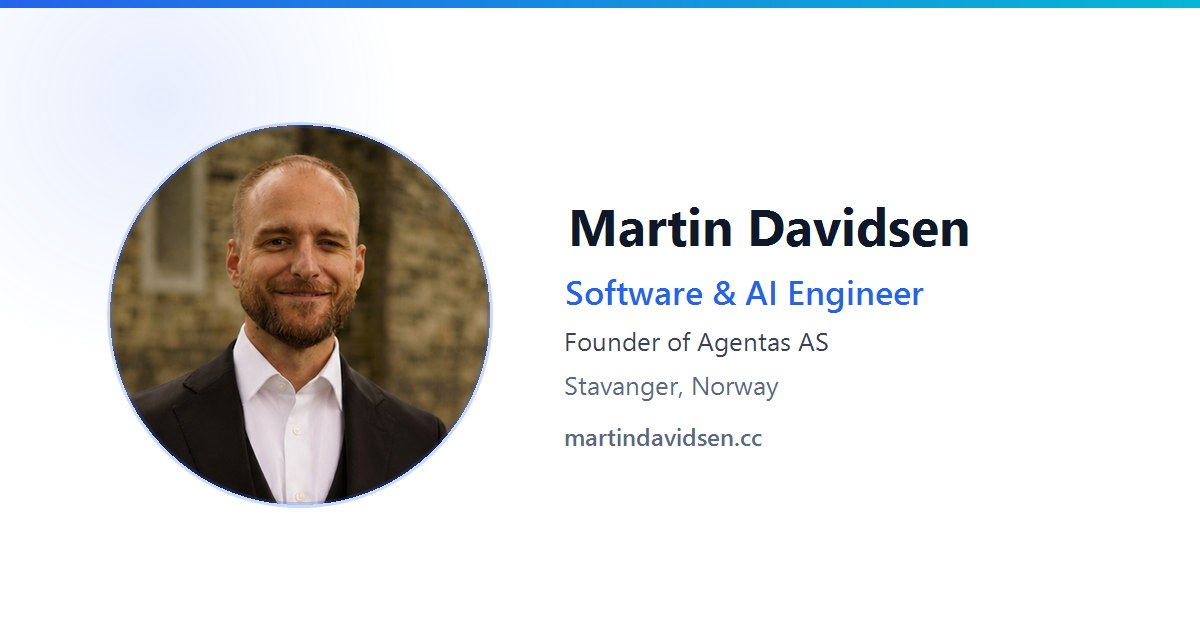
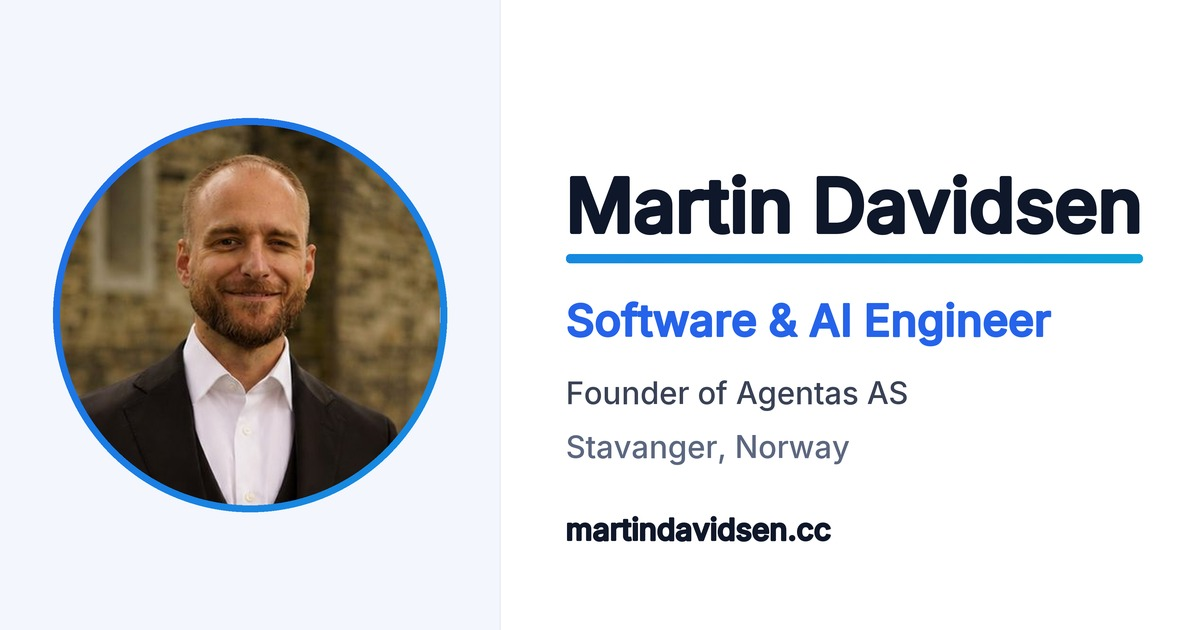
feat(og): refresh the OG share card — generator-owned, crisp, versioned
Photo-forward refresh of the hand-made og-card.jpg (Martin chose "keep the
photo" over a text card): same layout rebuilt on the site's :root palette
with a --gradient-accent ring on the headshot + underline under the name.
New root gen-og-card.py (not served; Dockerfile COPYs an explicit list),
rendered SUPERSAMPLED 3x -> LANCZOS on flat backgrounds so it survives
LinkedIn's ~500px downscale (rule established on the agentas-sites cards
today), validated against a simulated downscale before shipping.

Head: og:image/twitter:image/JSON-LD image -> og-card.jpg?v=1 (og-card
leaves the unversioned-CF-purge list; regen = bump N), + og:image:type,
og:image:alt, twitter:image.

Committed surgically: only the head hunk of index.html is included — the
in-flight project-card edits from the parallel career session stay
uncommitted in the working tree.

Docs same-commit: OM (gotcha + generator + stamp), KB §3 + stamp, Journal
2026-09-02c, Testing (pending Post-Inspector re-scrape).

diff --git a/index.html b/index.html
@@ -14,10 +14,13 @@
     <meta property="og:description" content="Software & AI Engineer based in Stavanger, Norway. Full-stack software, LLM-driven systems, and industrial automation.">
     <meta property="og:type" content="website">
     <meta property="og:url" content="https://martindavidsen.cc/">
-    <meta property="og:image" content="https://martindavidsen.cc/images/og-card.jpg">
+    <meta property="og:image" content="https://martindavidsen.cc/images/og-card.jpg?v=1">
     <meta property="og:image:width" content="1200">
     <meta property="og:image:height" content="630">
+    <meta property="og:image:type" content="image/jpeg">
+    <meta property="og:image:alt" content="Martin Davidsen — Software & AI Engineer">
     <meta name="twitter:card" content="summary_large_image">
+    <meta name="twitter:image" content="https://martindavidsen.cc/images/og-card.jpg?v=1">
     <link rel="preload" as="font" type="font/woff2" href="fonts/inter-latin-var.woff2" crossorigin>
     <link rel="stylesheet" href="styles.css?v=11">
     <script type="application/ld+json">
@@ -27,7 +30,7 @@
       "name": "Martin Davidsen",
       "jobTitle": "Software & AI Engineer",
       "url": "https://martindavidsen.cc",
-      "image": "https://martindavidsen.cc/images/og-card.jpg",
+      "image": "https://martindavidsen.cc/images/og-card.jpg?v=1",
       "address": { "@type": "PostalAddress", "addressLocality": "Stavanger", "addressCountry": "NO" },
       "sameAs": [
         "https://linkedin.com/in/martin-davidsen-51425a111",

diff --git a/gen-og-card.py b/gen-og-card.py
@@ -1,0 +1,106 @@
+# -*- coding: utf-8 -*-
+"""Generate the martindavidsen.cc Open Graph share card (images/og-card.jpg).
+
+Photo-forward refresh of the original hand-made card: same layout (circular
+headshot left, name/role/location right) rebuilt on the site's own :root palette
+from styles.css, with the --gradient-accent (#2563eb -> #06b6d4) as a photo ring
++ an underline under the name. Final image 1200x630 (Open Graph spec).
+
+CRISPNESS (learned on the agentas card, 2026-09-02): LinkedIn downscales the
+card to ~500px + re-encodes, so render SUPERSAMPLED (3x -> LANCZOS), keep the
+background flat, use bold high-contrast type. Eyeball a ~523x274 JPEG of the
+output before shipping - that's what platforms actually show.
+
+Headshot source = images/martin-400.jpg (the site's own headshot crop; ~1:1
+with the final circle so the supersample roundtrip is lossless). Font =
+_assets/inter.ttf (gitignored; copy of the agentas-sites ogcard-gen font).
+Root *.py files are NOT served (Dockerfile COPYs an explicit file list).
+
+og-card.jpg is UNVERSIONED in the head by default and CF-edge-cached - this
+refresh switched the og:image/twitter:image/JSON-LD refs to `?v=N` so a regen
+just bumps N (no Cloudflare purge). Overwrite = bump N in index.html.
+
+    python gen-og-card.py
+"""
+import os
+from PIL import Image, ImageDraw, ImageFont
+
+ROOT = os.path.dirname(os.path.abspath(__file__))
+FONT = os.path.join(ROOT, '_assets', 'inter.ttf')
+PHOTO = os.path.join(ROOT, 'images', 'martin-400.jpg')
+OUT = os.path.join(ROOT, 'images', 'og-card.jpg')
+
+# styles.css :root tokens.
+BG = (255, 255, 255)          # --bg-primary
+BG2 = (243, 246, 252)         # --bg-secondary
+INK = (15, 23, 42)            # --text-primary
+SECONDARY = (58, 66, 86)      # --text-secondary
+MUTED = (92, 103, 128)        # --text-muted
+ACCENT = (37, 99, 235)        # --accent            #2563eb
+GRAD_START = (37, 99, 235)    # --gradient-accent start
+GRAD_END = (6, 182, 212)      # --gradient-accent end #06b6d4
+BORDER = (229, 233, 242)      # --border
+
+SS = 3
+W, H = 1200 * SS, 630 * SS
+inter = lambda s: ImageFont.truetype(FONT, s * SS)
+
+
+def diag_gradient(c1, c2):
+    """Full-canvas 135deg linear gradient c1->c2 (--gradient-accent direction)."""
+    g = Image.new('RGB', (W, H), c1)
+    gd = ImageDraw.Draw(g)
+    diag = W + H
+    for i in range(0, diag, SS):
+        t = i / diag
+        gd.line([(0, i), (i, 0)], fill=tuple(int(c1[k] + (c2[k] - c1[k]) * t) for k in range(3)), width=SS)
+    return g
+
+
+img = Image.new('RGB', (W, H), BG)
+d = ImageDraw.Draw(img)
+grad = diag_gradient(GRAD_START, GRAD_END)
+
+# --- soft --bg-secondary wash on the photo half (flat, no fine texture) ---
+d.rectangle([0, 0, 500 * SS, H], fill=BG2)
+d.line([(500 * SS, 0), (500 * SS, H)], fill=BORDER, width=1 * SS)
+
+# --- circular headshot, gradient ring ---
+CIRCLE = 380 * SS
+cx, cy = 250 * SS, H // 2                      # circle center
+px, py = cx - CIRCLE // 2, cy - CIRCLE // 2    # photo top-left
+RING = 7 * SS
+
+ring_mask = Image.new('L', (W, H), 0)
+rd = ImageDraw.Draw(ring_mask)
+rd.ellipse([px - RING, py - RING, px + CIRCLE + RING, py + CIRCLE + RING], fill=255)
+rd.ellipse([px, py, px + CIRCLE, py + CIRCLE], fill=0)
+img.paste(grad, (0, 0), ring_mask)
+
+photo = Image.open(PHOTO).convert('RGB').resize((CIRCLE, CIRCLE), Image.LANCZOS)
+photo_mask = Image.new('L', (CIRCLE, CIRCLE), 0)
+ImageDraw.Draw(photo_mask).ellipse([0, 0, CIRCLE, CIRCLE], fill=255)
+img.paste(photo, (px, py), photo_mask)
+d = ImageDraw.Draw(img)
+
+# --- text block, right ---
+TX = 566 * SS
+name_f = inter(74)
+d.text((TX, 232 * SS), 'Martin Davidsen', font=name_f, fill=INK, anchor='ls', stroke_width=2 * SS)
+name_w = d.textlength('Martin Davidsen', font=name_f)
+
+# gradient underline under the name (site's --gradient-accent motif)
+uy = 254 * SS
+bar_mask = Image.new('L', (W, H), 0)
+ImageDraw.Draw(bar_mask).rounded_rectangle([TX, uy, TX + name_w, uy + 9 * SS], radius=4 * SS, fill=255)
+img.paste(grad, (0, 0), bar_mask)
+d = ImageDraw.Draw(img)
+
+d.text((TX, 336 * SS), 'Software & AI Engineer', font=inter(44), fill=ACCENT, anchor='ls', stroke_width=1 * SS)
+d.text((TX, 404 * SS), 'Founder of Agentas AS', font=inter(31), fill=SECONDARY, anchor='ls')
+d.text((TX, 458 * SS), 'Stavanger, Norway', font=inter(31), fill=MUTED, anchor='ls')
+d.text((TX, 540 * SS), 'martindavidsen.cc', font=inter(30), fill=INK, anchor='ls', stroke_width=1 * SS)
+
+img = img.resize((1200, 630), Image.LANCZOS)
+img.save(OUT, quality=92, optimize=True)
+print('wrote', OUT, '(1200x630, rendered at %dx)' % SS)

diff --git a/KnowledgeBase.md b/KnowledgeBase.md
@@ -8,9 +8,11 @@ that bite. The code index (where things live + invariants) is
 _The bible set: **OrientationMap = the machine · KnowledgeBase = the model ·
 ResearchJournal = the history · ToDo = deferrals · Testing = pending verification.**_
 
-_Last verified: 2026-08-20 @ ac64bfc (master) — bible-freshening pass: re-checked
-facts against OrientationMap + code (cache-bust was stale at v=7, corrected to
-v=9); added the Private & On-Prem AI framing fact (08-19 change)._
+_Last verified: 2026-09-02 (master) — added the generator-owned OG-card FACT
+(photo-forward refresh, supersampled crispness rule, `?v=` discipline; og-card
+left the unversioned-purge list) + deferred volatile cache-bust N to
+OrientationMap/code per this doc's own policy. Prior: 2026-08-20 @ ac64bfc
+bible-freshening pass; Private & On-Prem AI framing fact (08-19)._
 
 ## How to read this doc
 **[FACT]** = code/deploy-verified. **[HYP]** = hypothesis + confidence. Volatile
@@ -49,12 +51,24 @@ code — code wins any conflict.
 - **[FACT]** **Email is base64-assembled at runtime** into `#cc-email` — the
   plaintext stays out of the committed source (bot-harvest defense).
 - **[FACT]** **Cache-bust discipline:** `styles.css?v=N` + `script.js?v=N` in
-  `index.html` — bump on any functional CSS/JS change (currently v=9 / v=5).
-  Assets serve `immutable, 30d` and are Cloudflare-edge-cached; the HTML is
-  `no-cache`. **Unversioned files** (`robots.txt`, `favicon.*`,
-  `apple-touch-icon.png`, `og-card.jpg`, any reused image name) can serve
-  **stale from the CF edge after a deploy** → Custom-Purge that URL in Cloudflare
-  (the exact list + the verify-with-`?cb=1` trick are in OrientationMap).
+  `index.html` — bump on any functional CSS/JS change (current N lives in
+  OrientationMap/code — code wins). Assets serve `immutable, 30d` and are
+  Cloudflare-edge-cached; the HTML is `no-cache`. **Unversioned files**
+  (`robots.txt`, `favicon.*`, `apple-touch-icon.png`, any reused image name) can
+  serve **stale from the CF edge after a deploy** → Custom-Purge that URL in
+  Cloudflare (the exact list + the verify-with-`?cb=1` trick are in
+  OrientationMap). `og-card.jpg` left this list 2026-09-02 — now referenced
+  `?v=N`, so a regen bumps N instead of purging.
+- **[FACT]** **The OG share card is generator-owned** (2026-09-02):
+  `gen-og-card.py` (repo root, not served) renders `images/og-card.jpg` —
+  photo-forward refresh of the original hand-made card (circular headshot +
+  `--gradient-accent` ring, name/role/"Founder of Agentas AS"/domain) on the
+  site's own `:root` palette. Rendered SUPERSAMPLED (3×→LANCZOS, flat
+  backgrounds) because LinkedIn downscales cards to ~500px + re-encodes — fine
+  detail turns to mush (rule established on the agentas-sites cards the same
+  day, incl. the eyeball-check: downscale to ~523×274 JPEG q85 and look at
+  THAT). Regen = rerun + bump `?v=` (og:image, twitter:image, JSON-LD `image`)
+  + LinkedIn Post-Inspector re-scrape. Needs `_assets/inter.ttf` (gitignored).
 - **[FACT]** **Marketing-safe images only** — no client names / repo paths /
   failing tests visible (same rule as agentas-sites).
 - **[FACT]** **Private & On-Prem AI pillar (added 2026-08-19) is framed as

diff --git a/OrientationMap.md b/OrientationMap.md
@@ -1,6 +1,10 @@
 # OrientationMap — martin-portfolio (martindavidsen.cc)
 
-_Last verified: 2026-09-02b (master) — the `#work` grid is now **8 collapsible accordion
+_Last verified: 2026-09-02c (master) — OG share card REFRESHED + made generator-owned
+(`gen-og-card.py` → `images/og-card.jpg`, photo-forward light card on the site palette,
+supersampled for LinkedIn-downscale crispness); head og:image/twitter:image/JSON-LD now `?v=1`
+(og-card left the unversioned-CF-purge list) + added `og:image:type`/`alt` + `twitter:image`.
+Prior 09-02b: the `#work` grid is now **8 collapsible accordion
 sections**: `.ai-sections` > `.ai-section` > (`.ai-cat` `<button>` header with `.ai-cat-name`
 + `.ai-cat-count` pill + `.ai-cat-chevron`) + `.ai-section-panel` > `.ai-section-inner` >
 per-section `.ai-grid` of cards. **Default-collapsed**, smooth expand via animatable
@@ -70,10 +74,19 @@ tests). No `NavigationMap.md` — this file stays under the ~20 KB split line.
   filename instead of bump.
 - **UNVERSIONED files + Cloudflare cache:** assets are served `Cache-Control: immutable, 30d`
   and Cloudflare caches them at the edge; the HTML is `no-cache` (nginx `expires -1` in `location /`).
-  Files WITHOUT a `?v` (`robots.txt`, `favicon.*`, `apple-touch-icon.png`, `og-card.jpg`, and any
+  Files WITHOUT a `?v` (`robots.txt`, `favicon.*`, `apple-touch-icon.png`, and any
   image reused under the same name) can serve **stale from the CF edge after a deploy** — the origin
   is correct but `cf-cache-status: HIT` serves the old copy. After changing/deleting any unversioned
   file, **Custom-Purge that URL in Cloudflare** (verify with `curl '…?cb=1'` which bypasses the edge).
+  `og-card.jpg` LEFT this list 2026-09-02: the head + JSON-LD now reference it `?v=1`, so a regen =
+  bump N (no purge).
+- **OG share card is generator-owned:** `images/og-card.jpg` (1200×630, photo-forward: circular
+  headshot + gradient ring, name/role/domain) is generated by root `gen-og-card.py` — regenerate,
+  don't hand-edit. Renders SUPERSAMPLED (3×→LANCZOS) on flat bgs so it stays crisp after LinkedIn's
+  ~500px downscale (rule learned on the agentas-sites cards, see that repo's KB §SEO). Needs
+  `_assets/inter.ttf` (gitignored; root `.py`/`_assets/` are never served — Dockerfile COPYs an
+  explicit list). After a regen: bump `?v=` on og:image + twitter:image + JSON-LD `image`, then a
+  LinkedIn Post-Inspector re-scrape.
 - **Responsive nav:** the hamburger drawer activates at **≤1024px** (its own media query), NOT 768 —
   tablets/landscape phones would otherwise get the desktop navbar and wrap the logo/NO links into the
   sticky header. The `≤768` block handles grid-collapse only. Closed drawer is `visibility:hidden`

diff --git a/ResearchJournal.md b/ResearchJournal.md
@@ -127,6 +127,23 @@ counts 3·2·3·2·2·2·2·1, Automation expands to its 3 cards, NO toggle swap
 in screenshots (scroll-reveal + capture quirk) — verify visually in real Chrome, but DOM/CSS assertions
 via its `javascript_tool` are reliable.
 
+### 2026-09-02c — OG share card refreshed + made generator-owned
+Spun out of the agentas-sites OG/LinkedIn session the same day (see that repo's
+ResearchJournal 2026-09-02: the "couldn't generate a preview" was LinkedIn's
+negative cache, and its first light apex card came back blurry — LinkedIn
+downscales cards to ~500px, killing fine detail). Martin chose "refresh, keep
+photo" over a text card for the portfolio (a face beats a logo for a personal
+brand). New root `gen-og-card.py` renders `images/og-card.jpg` as a faithful
+refresh of the hand-made original — same layout (circular `martin-400.jpg`
+headshot left / name-role-location right), rebuilt on the site's `:root` palette
+with a `--gradient-accent` photo ring + underline, SUPERSAMPLED 3×→LANCZOS on
+flat backgrounds, validated against a simulated LinkedIn downscale (~523×274
+JPEG) before shipping. Head: og:image/twitter:image/JSON-LD `image` → `?v=1`
+(og-card leaves the unversioned-CF-purge list), + `og:image:type`/`og:image:alt`
++ `twitter:image`. Committed surgically around an in-flight working-tree edit
+from the parallel career session (project-card changes left uncommitted, only
+the head hunk of index.html staged). Facts promoted → KnowledgeBase §3.
+
 ## Note
 The domain evolved `martin.defc0n.no` → **martindavidsen.cc** — the permanent
 personal brand, kept deliberately distinct from the agentas.net company sites.

diff --git a/Testing.md b/Testing.md
@@ -1,6 +1,20 @@
 # martin-portfolio — Pending Tests (unconfirmed)
 
-_Last verified: 2026-08-20 @ ac64bfc (master) — nothing pending. All shipped
-changes (through the 2026-08-19 Private & On-Prem AI pillar + icon alignment
-fix) are live on `master`, in sync with `origin`, with no open
-human-verification items._
+_Last verified: 2026-09-02 (master) — one pending item below (OG-card re-scrape).
+Everything earlier (through the 09-02 accordion work) is live and human-verified._
+
+## LinkedIn preview shows the REFRESHED OG card
+- **Context:** `images/og-card.jpg` was regenerated 2026-09-02 (photo-forward
+  refresh via `gen-og-card.py`, referenced `?v=1`) and deployed. LinkedIn still
+  caches the OLD card from the last scrape.
+- **Repro (needs a LinkedIn login):** https://www.linkedin.com/post-inspector/ →
+  inspect `https://martindavidsen.cc/` (forces a fresh scrape).
+- **Pass criteria:** the preview shows the NEW card — gradient ring around the
+  headshot + gradient underline under the name — rendered crisp, with no
+  ingestion warnings.
+- **Already machine-verified (do not re-test):** new card is 1200×630 JPEG,
+  crisp in a simulated LinkedIn downscale (~523×274); head carries
+  `og:image`/`twitter:image` `?v=1` + `og:image:type`/`alt`; the site previewed
+  fine on LinkedIn before, so the crawl chain is known-good.
+- On confirmation: note the result in `ResearchJournal.md` (2026-09-02c) and
+  DELETE this entry.
